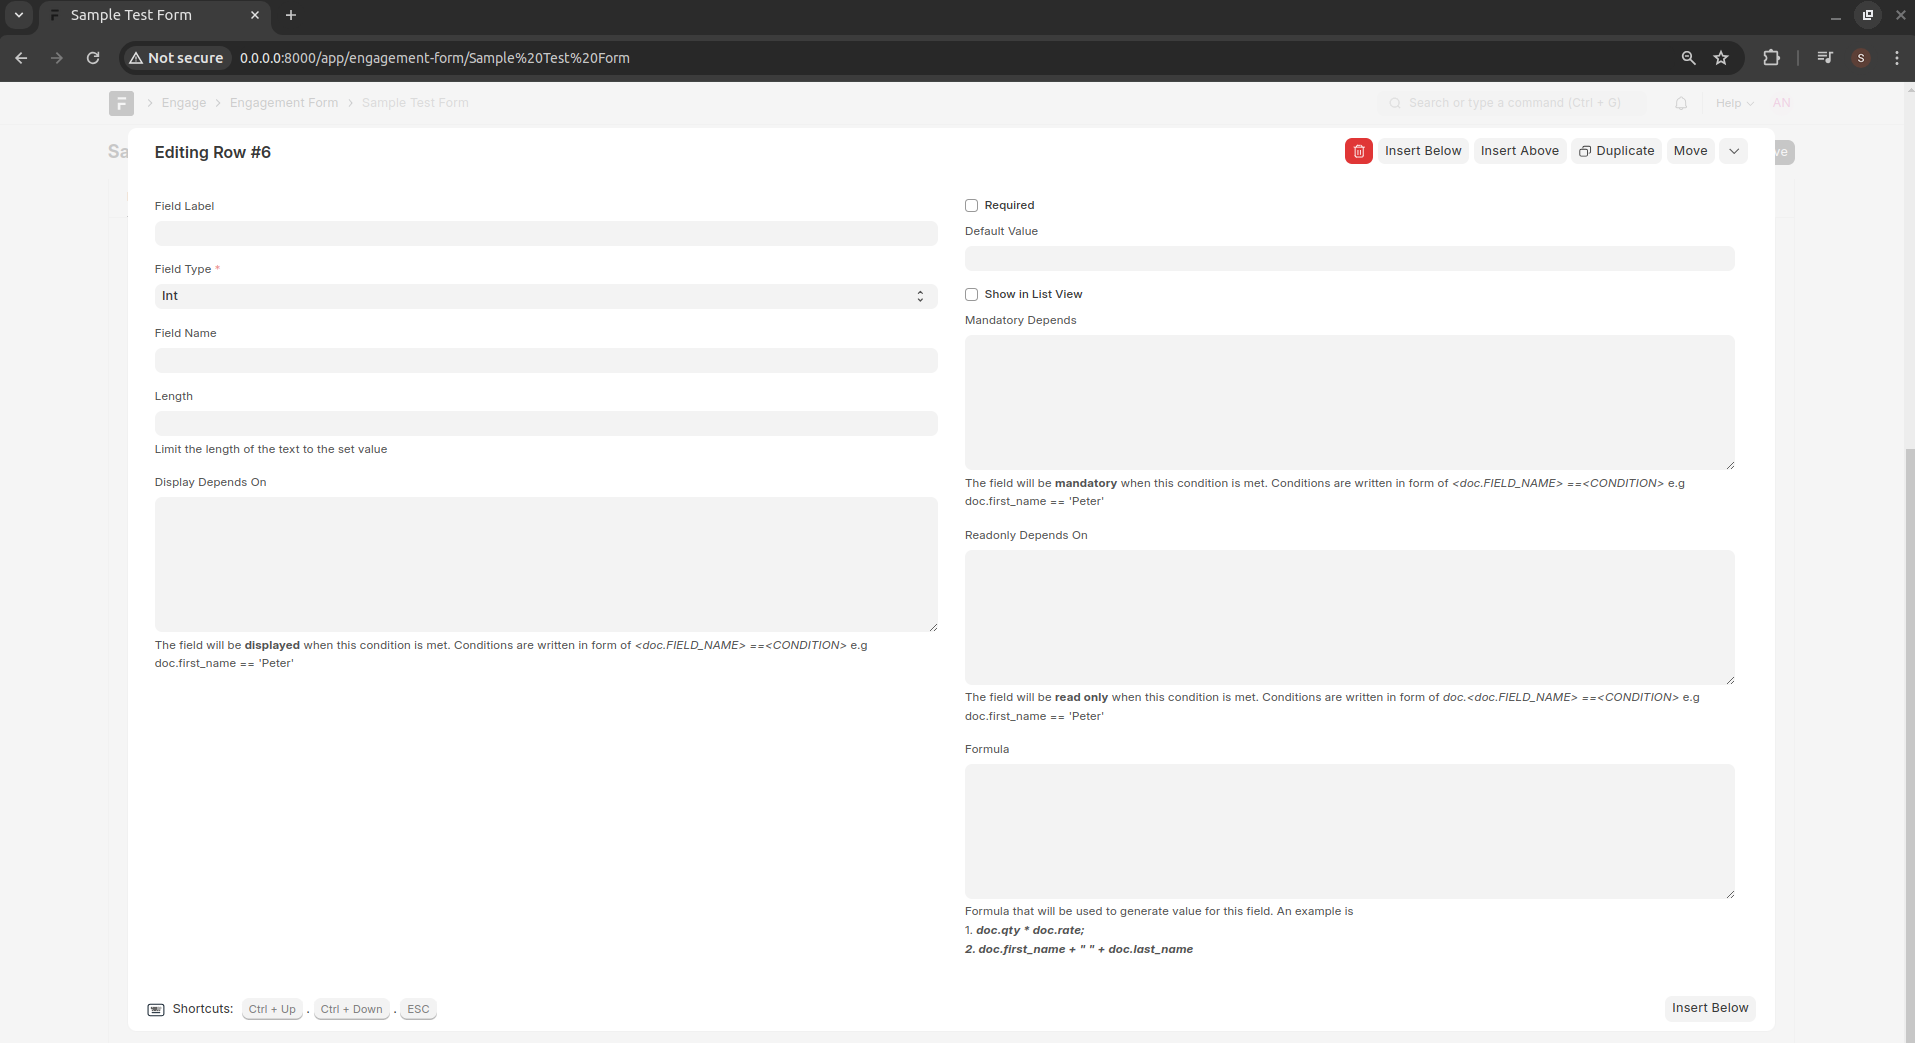
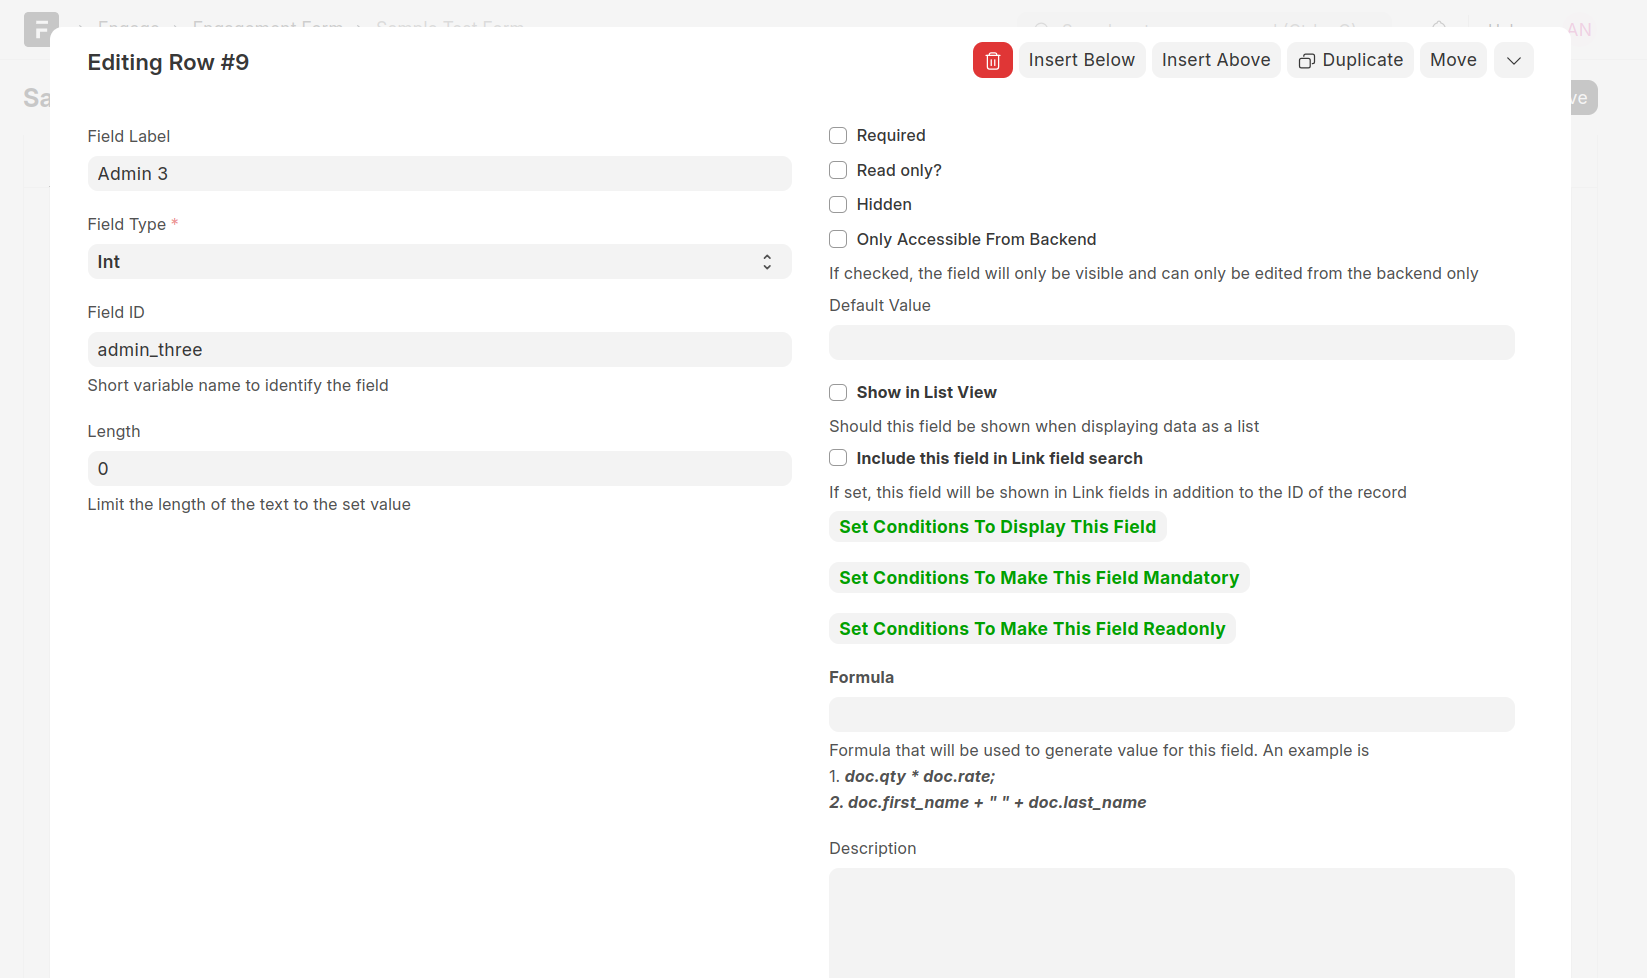
docs: Update documentation on link filters

diff --git a/docs/form-design/form-field.rst b/docs/form-design/form-field.rst
@@ -25,25 +25,37 @@ This is the name that will be assigned to a column in the table storing the form
 
 **Length**
 This value limits the length of the values entered for the field. Such as, you can define that the country codes must not exceed a length of 3
-
-**Display Depends On**
-This property determines whether the field will be displayed or not. A condition that will be evaluated has to be specified e.g
-
-.. code-block:: javascript
-
-    doc.first_name == 'Peter'
-
-In the above example, this field will only be displayed when the value of first_name field has been set as Peter.
-This property is used to implement skip logic by defining the conditions which determine if a certain field will be displayed or not
-
-**Readonly Depends On**
-If this condition is satisfied, the field will be read only
-
-**Readonly Depends On**
-If this condition is satisfied, the field will be mandatory
  
 **Required**
 If this is checked, the field will be mandatory
+
+**Set Conditions To Display This Field**
+This sets the conditions that determin whether the field will be displayed or not.  A condition that will be evaluated has to be specified e.g
+
+.. code-block:: javascript
+
+    [["Sample Test Form","admin_three","=","Chinga"]]
+
+- In the above example, this field will only be displayed when the value of admin_three field has been set as Chinga.
+- This property is used to implement skip logic by defining the conditions which determine if a certain field will be displayed or not
+
+.. warning:: 
+
+    If you are setting conditions to make this field to display, ensure that the field has not been set as hidden. Otherwise, the field may show when it is not expected to be shown and vice versa.
+
+**Set Conditions To Make This Field Mandatory**
+This button sets the conditions, which if satistied, will cause the field to be rendered as mandatory
+
+.. warning:: 
+
+    You cannot set a field as mandatory and at the same time set the conditions to make the field mandatory. This is because there will be a clash and the system may perform unexpectedly. You have to pick one approach and not both
+
+**Set Conditions To Make This Field Readonly**
+This button sets the conditions, which if satistied, will cause the field to be rendered as read only
+
+.. warning:: 
+
+    You cannot set a field as read only and at the same time set the conditions to make the field read only. This is because there will be a clash and the system may perform unexpectedly. You have to pick one approach and not both
 
 **Default Value**
 Is specified, this will be the default value for the field

diff --git a/docs/form-design/form-design.rst b/docs/form-design/form-design.rst
@@ -50,14 +50,15 @@ or
 
 .. code:: JSON
 
-    { "population": [">", 2000000]" }
+    { "population": [">", 2000000] }
 
 
 3. To select a list of attendees with Farming and Livestock Keeping as their livelihoods
 
+
 .. code:: JSON
 
-    { "livelihood": ["in", ["Farming", "Livestock Keeping"]]" }
+    { "livelihood": ["in", ["Farming", "Livestock Keeping"]] }
 
 
 Please note that you will need to replace the field names with the appropriate names as specified when designing the linked form.
@@ -144,11 +145,23 @@ This is a Time field where you can define the Time in the field.
 
 **Linked Field**
 
-This is a field that derives its value from a property of another form that is being referenced in the current form. For example say you want to display the full name of a person after selecting their id number. In this example, you will have to first add a Link field that gets its data from the Person form. Then, you will add a Linked Field that then you specify the value of _Form To Link_ to be the _Person_ field. The value of _Linked Form Property_ will be set as the full name property of the Person form
+This is a field that derives its value from a property of another form that is being referenced in the current form. For example say you want to display the full name of a person after selecting their id number. In this example, you will have to first add a Link field that gets its data from the Person form. Then, you will add a Linked Field that then you specify the value of **Form To Link** to be the **Person** field. The value of **Linked Form Property** will be set as the full name property of the Person form
 
 .. image:: ../_static/images/linked-field.png
     :align: center
     :alt: Linked Field
+
+To use a Linked Field, follow these steps:
+
+    - Add a Link field and set the value of the Form property to be the form that you want to retrieve data from
+    - Add another field of type Linked Field
+        
+        - Set the value of **Form To Link** to be the field that you added in step 1
+        - Set the **Linked Form Property** to be the field of the **Form To Link** that you want to pull data for
+
+.. note:: 
+
+    Using this field type, you can show a list of values captured as part of another engagement tool.  
 
 
 Child / Table Form

diff --git a/docs/form-design/link-filters.rst b/docs/form-design/link-filters.rst
@@ -1,0 +1,29 @@
+====================
+Dynamic Link Filters
+====================
+
+Sometimes, the value of a link will depend on a value of another field. For example, you may want to filter Admin level records based on the value of a higher admin level. An example is when you want to select all wards that belong to a specific county. A ward and a county will have a parent-child relationship which makes it possible to perform cascaded Filters.
+
+.. image:: ../_static/images/link-field-filters.png
+    :align: center
+    :alt: Link Field Filters
+
+
+- To set filters for an engagement form field, click on the **Set Filters** button which is only available when the field type is of type **Link**
+
+.. image:: ../_static/images/link-field-filters-dialog.png
+    :align: center
+    :alt: Link field filters popup
+
+
+- To add a filter, click on the button labeled 4.
+- To specify the field you want to filter with, click on the dropdown labeled 1. Here you will have a list of all the available fields. Select the field that you wish
+- To specify the operand, select the dropdown labeled 2. There are different operands depending on the type of field selected
+- Click on the area labeled 3 to specify the filter value. 
+
+.. note:: 
+
+    If you want to specify the filter value as the value of a field of the current record, in the area labeled 3, type the value as **doc.{FIELD_ID}**. Remember to replace **{FIELD_ID** with the actual id of the field e.g **doc.admin_two**
+
+- Click on Clear Filters button to set the filters
+- Once you have set the filters click on the Apply button

diff --git a/docs/form-design/index.rst b/docs/form-design/index.rst
@@ -14,3 +14,4 @@ Home page for form design
    form-field
    reusable-list
    engagement-tool-group
+   link-filters
